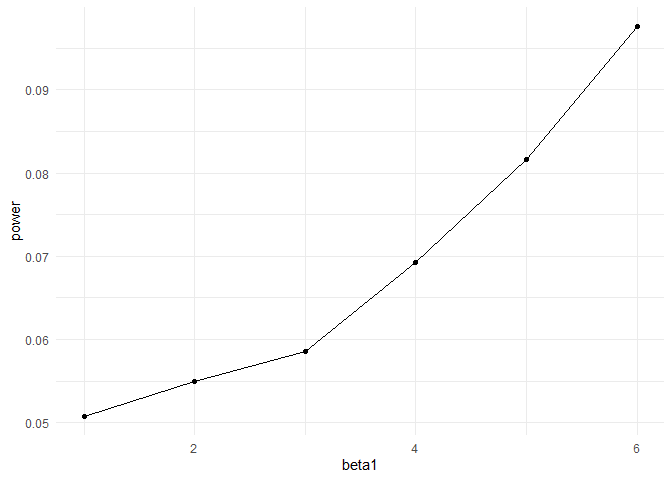
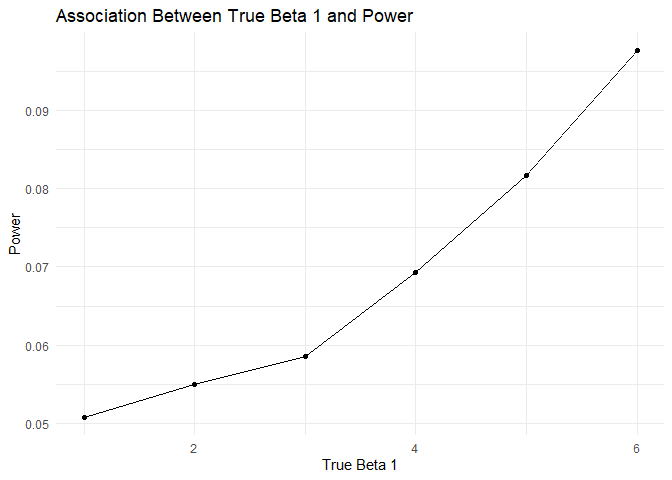
Add details to plots in problem 3

diff --git a/p8105_hw5_gx2144.md b/p8105_hw5_gx2144.md
@@ -158,10 +158,19 @@ plot1 = sim_results2 %>%
 
 ggplot(plot1, aes(x = beta1,y = power))+
   geom_point()+
-  geom_line()
+  geom_line()+
+  labs(
+    title = "Association Between True Beta 1 and Power",
+    x = "True Beta 1",
+    y = "Power"
+  )
 ```
 
 ![](p8105_hw5_gx2144_files/figure-gfm/unnamed-chunk-6-1.png)<!-- -->
+
+  - comment From the plot we can see that Power increases as True Beta1
+    increases.There is a positive relationship between True Beta1 and
+    Power.
 
 ### Plot of Average of Estimated Beta and True value of Beta
 
@@ -189,7 +198,13 @@ ggplot(binddata, aes(x = beta1))+
   geom_point(aes(y = mean1))+
   geom_line(aes(y = mean1, color = "red"))+
   geom_point(aes(y = mean2))+
-  geom_line(aes(y = mean2,color = "blue"))
+  geom_line(aes(y = mean2,color = "blue"))+
+  scale_colour_discrete(labels = c('Average Estimate When Null was rejected','Average Estimate '))+
+  labs(
+    title = "Association Between Average Estimate Beta 1 and True Beta 1",
+    x = "True Beta 1",
+    y = "Average Estimate Beta 1"
+  )
 ```
 
 ![](p8105_hw5_gx2144_files/figure-gfm/unnamed-chunk-7-1.png)<!-- -->
